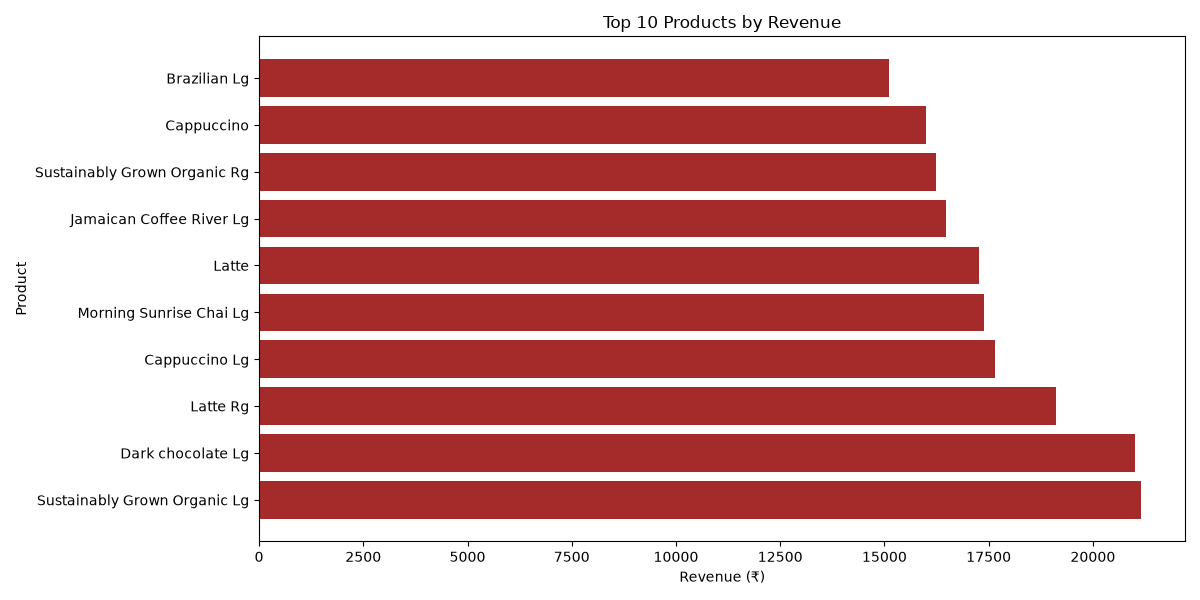
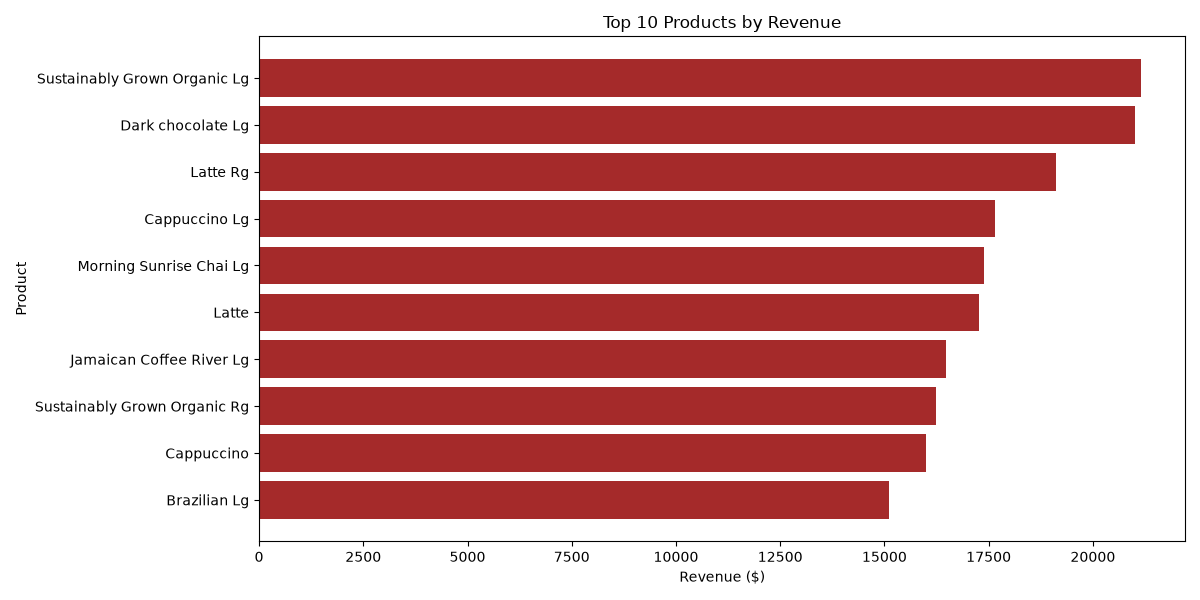
Fix currency, Pareto count, dashboard filters and file paths

diff --git a/dashboard.py b/dashboard.py
@@ -7,7 +7,7 @@ import matplotlib.pyplot as plt
 import streamlit as st
 
 # Load data
-df = pd.read_csv(r"C:\Users\shrut\OneDrive\Desktop\project unified mentor\_Coffee Roasters.xlsx - Transactions.csv")
+df = pd.read_csv("_Coffee Roasters.xlsx - Transactions.csv")
 
 # Calculate revenue
 df['Revenue'] = df['transaction_qty'] * df['unit_price']
@@ -15,16 +15,6 @@ df['Revenue'] = df['transaction_qty'] * df['unit_price']
 # ---- PAGE TITLE ----
 st.title("☕ Afficionado Coffee Roasters")
 st.subheader("Product Optimization & Revenue Analysis Dashboard")
-
-# ---- KPI CARDS ----
-Total_revenue = df['Revenue'].sum()
-total_transactions = len(df)
-total_products = df['product_detail'].nunique()
-
-col1, col2, col3 = st.columns(3)
-col1.metric("Total Revenue", f"₹ {Total_revenue:,.0f}")
-col2.metric("Total Transactions", f"{total_transactions:,}")
-col3.metric("Unique Products", total_products)
 
 # ---- SIDEBAR FILTERS ----
 st.sidebar.header("Filters")
@@ -51,6 +41,19 @@ filtered_df = df[
 ]
 
 st.write(f"Showing {len(filtered_df):,} transactions")
+if filtered_df.empty:
+    st.warning("Please select at least one category and one store.")
+    st.stop()
+
+# ---- KPI CARDS (based on the filters) ----
+Total_revenue = filtered_df['Revenue'].sum()
+total_transactions = len(filtered_df)
+total_products = filtered_df['product_detail'].nunique()
+
+col1, col2, col3 = st.columns(3)
+col1.metric("Total Revenue", f"$ {Total_revenue:,.0f}")
+col2.metric("Total Transactions", f"{total_transactions:,}")
+col3.metric("Product Variants", total_products)
 
 # ---- CHART 1 - Revenue by Category ----
 st.subheader("Revenue by Category")
@@ -58,7 +61,7 @@ category_revenue = filtered_df.groupby('product_category')['Revenue'].sum().sort
 
 fig1, ax1 = plt.subplots(figsize=(10, 5))
 ax1.barh(category_revenue.index, category_revenue.values, color='brown')
-ax1.set_xlabel('Revenue (₹)')
+ax1.set_xlabel('Revenue ($)')
 ax1.set_title('Revenue by Category')
 st.pyplot(fig1)
 
@@ -68,7 +71,7 @@ top_products = filtered_df.groupby('product_detail')['Revenue'].sum().sort_value
 
 fig2, ax2 = plt.subplots(figsize=(10, 5))
 ax2.barh(top_products.index, top_products.values, color='sienna')
-ax2.set_xlabel('Revenue (₹)')
+ax2.set_xlabel('Revenue ($)')
 ax2.set_title(f'Top {top_n} Products by Revenue')
 st.pyplot(fig2)
 
@@ -87,7 +90,7 @@ bottom10 = filtered_df.groupby('product_detail')['Revenue'].sum().sort_values(as
 
 fig4, ax4 = plt.subplots(figsize=(10, 5))
 ax4.barh(bottom10.index, bottom10.values, color='red')
-ax4.set_xlabel('Revenue (₹)')
+ax4.set_xlabel('Revenue ($)')
 ax4.set_title('Bottom 10 Products by Revenue')
 st.pyplot(fig4)
 
@@ -121,6 +124,6 @@ for i, row in scatter_data.iterrows():
                 fontsize=7, alpha=0.8)
 
 ax5.set_xlabel('Total Quantity Sold (Popularity)')
-ax5.set_ylabel('Total Revenue (₹)')
+ax5.set_ylabel('Total Revenue ($)')
 ax5.set_title('Product Popularity vs Revenue')
 st.pyplot(fig5)

diff --git a/analysis.py b/analysis.py
@@ -5,7 +5,7 @@
 import pandas as pd
 
 # Loading our CSV file
-df = pd.read_csv(r"C:\Users\shrut\OneDrive\Desktop\project unified mentor\_Coffee Roasters.xlsx - Transactions.csv")
+df = pd.read_csv("_Coffee Roasters.xlsx - Transactions.csv")
 
 # Let's see what's inside our data
 print("=== FIRST 5 ROWS ===")
@@ -71,7 +71,7 @@ pareto_table = pd.DataFrame({
 })
 
 # Step 5 - Mark which products fall in the 80% threshold
-pareto_table['Is_Hero_Product'] = pareto_table['Cumulative %'] <= 80
+pareto_table['Is_Hero_Product'] = pareto_table['Cumulative %'].shift(fill_value=0) < 80
 
 print(pareto_table)
 
@@ -81,3 +81,16 @@ print(f"\nNumber of hero products driving 80% revenue: {len(hero_products)}")
 print(f"Total products: {len(pareto_table)}")
 print(f"\nHero products are {round(len(hero_products)/len(pareto_table)*100, 2)}% of menu")
 print(f"They drive 80% of revenue")
+hero_share = hero_products['Revenue'].sum() / Total_revenue * 100
+rest_count = len(pareto_table) - len(hero_products)
+print(f"\nHero products actually give {hero_share:.1f}% of revenue")
+print(f"The other {rest_count} products give {100 - hero_share:.1f}% of revenue")
+
+df['size'] = df['product_detail'].str.split().str[-1]
+size_table = df[df['size'].isin(['Sm', 'Rg', 'Lg'])].groupby('size').agg(
+    Total_Revenue=('Revenue', 'sum'),
+    Variants=('product_detail', 'nunique')
+)
+size_table['Revenue_per_Variant'] = (size_table['Total_Revenue'] / size_table['Variants']).round(0)
+print("\n=== REVENUE BY SIZE ===")
+print(size_table)

diff --git a/charts.py b/charts.py
@@ -1,14 +1,11 @@
 import pandas as pd
 import matplotlib.pyplot as plt
-import pandas as pd
-import matplotlib.pyplot as plt
 
 # Load data
-df = pd.read_csv(r"C:\Users\shrut\OneDrive\Desktop\project unified mentor\_Coffee Roasters.xlsx - Transactions.csv")
+df = pd.read_csv("_Coffee Roasters.xlsx - Transactions.csv")
 
 # Calculate revenue
 df['Revenue'] = df['transaction_qty'] * df['unit_price']
-Total_revenue = df['Revenue'].sum()
 
 # Top 10 products by revenue
 top10_revenue = df.groupby('product_detail')['Revenue'].sum().sort_values(ascending=False).head(10)
@@ -16,8 +13,9 @@ top10_revenue = df.groupby('product_detail')['Revenue'].sum().sort_values(ascend
 # Draw bar chart
 plt.figure(figsize=(12, 6))
 plt.barh(top10_revenue.index, top10_revenue.values, color='brown')
+plt.gca().invert_yaxis()
 plt.title('Top 10 Products by Revenue')
-plt.xlabel('Revenue (₹)')
+plt.xlabel('Revenue ($)')
 plt.ylabel('Product')
 plt.tight_layout()
 plt.savefig('top10_revenue.png')
@@ -42,7 +40,7 @@ bottom10_revenue = df.groupby('product_detail')['Revenue'].sum().sort_values(asc
 plt.figure(figsize=(12, 6))
 plt.barh(bottom10_revenue.index, bottom10_revenue.values, color='red')
 plt.title('Bottom 10 Products by Revenue')
-plt.xlabel('Revenue (₹)')
+plt.xlabel('Revenue ($)')
 plt.ylabel('Product')
 plt.tight_layout()
 plt.savefig('bottom10_revenue.png')
